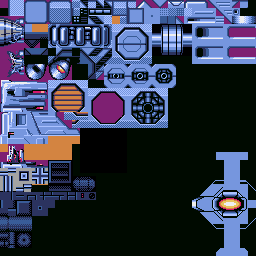
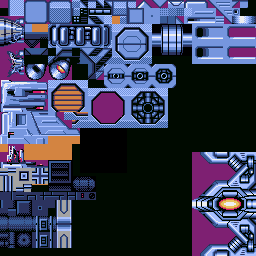
巨大戦艦

Changed region(s): [[0.75, 0.5938, 1.0, 1.0], [0.125, 0.7812, 0.2812, 0.9688]]

diff --git a/source/bossBattleShip.py b/source/bossBattleShip.py
@@ -12,6 +12,7 @@ from objMgr import ObjMgr
 from gameSession import GameSession
 from audio import BGM
 from enemy import CountMover
+from enemyArmored import Walker2
 import story
 
 
@@ -90,6 +91,8 @@ class BossBattleShip(enemy.EnemyBase):
         #self.stater = enemy.CountStater2(self, __class__.stateTable0, False, True)
 
         self.hatch = BossBattleShipHatch(self, (38-__class__.TILE_LEFT) *8, (42 -__class__.TILE_TOP)*8)
+        # 隔壁
+        self.barrierWall = None
         self.storyManager = story.StoryManager(self, storyList)
         self.batteryList = []
         self.missileLauncherList = []
@@ -135,14 +138,26 @@ class BossBattleShip(enemy.EnemyBase):
             # ハッチ爆発待ち
             self.storyManager.doStory()
             if self.hatch.removeFlag:
+                # ハッチが破壊されるとstoryList3を実行
                 gcommon.debugPrint("storyList3")
                 self.removeMissileLauncher()
+                enemy.removeEnemyShot()
+                self.enemyShotCollision = True
                 self.hatch = None
                 self.storyManager = story.StoryManager(self, storyList3, loopFlag=False, diffTime=True)
                 self.nextState()
         elif self.state == 2:
             # ハッチから侵入
             self.storyManager.doStory()
+            if self.barrierWall != None and self.barrierWall.removeFlag:
+                gcommon.debugPrint("storyList4")
+                self.storyManager = story.StoryManager(self, storyList4, loopFlag=False, diffTime=True)
+                ObjMgr.addObj(BossBattleShipCore(self, (89 -__class__.TILE_LEFT)*8, (27 -__class__.TILE_TOP)*8))
+                self.nextState()
+        elif self.state == 3:
+            self.storyManager.doStory()
+
+            
 
         # self.stater.update()
         # if self.stater.state == 1:
@@ -307,6 +322,12 @@ storyList2 = [
 storyList3 = [
     [0, BossBattleShip.setScroll, 0.5, -0.25],
     [360, BossBattleShip.setScroll, 0.75, 0.0],
+    [200, BossBattleShip.setScroll, 0.5, 0.0],
+]
+
+storyList4 = [
+    [0, BossBattleShip.setScroll, 1.0, 0.0],
+    [480, BossBattleShip.setScroll, 0.5, 0.0],
 ]
 
 # エンジン
@@ -819,7 +840,20 @@ class BossBattleShipHatch(enemy.EnemyBase):
                 enemy.create_explosion(cx, cy, gcommon.C_LAYER_EXP_SKY, gcommon.C_EXPTYPE_SKY_M)
             if self.cnt > 60:
                 pyxel.tilemap(1).copy(37, 26, 1, 37, 61, 97-37+1, 76-61+1)
-                ObjMgr.addObj(BossBattleShipBarrierWall(self.parent, (66 -BossBattleShip.TILE_LEFT)*8, (31-BossBattleShip.TILE_TOP)*8))
+                # 隔壁生成
+                self.parent.barrierWall = ObjMgr.addObj(BossBattleShipBarrierWall(self.parent, (66 -BossBattleShip.TILE_LEFT)*8, (31-BossBattleShip.TILE_TOP)*8))
+                ObjMgr.addObj(Walker2(self.parent, (64 -BossBattleShip.TILE_LEFT)*8, (38-BossBattleShip.TILE_TOP)*8,   \
+                    [
+                        [128, CountMover.MOVE, -1.0, 0.0],
+                        [60, CountMover.STOP, 0.0, 0.0],
+                        [64, CountMover.MOVE, 1.0, 0.0],
+                        [60, CountMover.STOP, 0.0, 0.0],
+                        [64, CountMover.MOVE, -1.0, 0.0],
+                        [60, CountMover.STOP, 0.0, 0.0],
+                        [128, CountMover.MOVE, 1.0, 0.0],
+                        [1, CountMover.STOP, 0.0, 0.0],
+                    ]
+                ))
                 self.remove()
 
     def draw(self):
@@ -859,3 +893,34 @@ class BossBattleShipBarrierWall(enemy.EnemyBase):
 
     def draw(self):
         pyxel.bltm(gcommon.sint(self.x), gcommon.sint(self.y), 1, 40, 88, 3, 5, 2)
+
+
+# コア
+class BossBattleShipCore(enemy.EnemyBase):
+    def __init__(self, parent, ox, oy):
+        super(__class__, self).__init__()
+        self.parent = parent
+        self.x = self.parent.x + ox
+        self.y = self.parent.y + oy
+        self.offsetX = ox
+        self.offsetY = oy
+        self.left = 0
+        self.top = 0
+        self.right = 8 * 8 -1
+        self.bottom = 8 * 13 -1
+        self.hitcolor1 = 12
+        self.hitcolor2 = 7
+        self.layer = gcommon.C_LAYER_SKY
+        self.exptype = gcommon.C_EXPTYPE_SKY_M
+        self.hp = 1000
+        self.ground = False
+        self.hitCheck = True
+        self.shotHitCheck = True
+        gcommon.debugPrint("Core")
+
+    def update(self):
+        self.x = self.parent.x + self.offsetX
+        self.y = self.parent.y + self.offsetY
+
+    def draw(self):
+        pyxel.bltm(gcommon.sint(self.x), gcommon.sint(self.y), 1, 54, 84, 8, 13, 2)

diff --git a/source/enemyArmored.py b/source/enemyArmored.py
@@ -5,7 +5,7 @@ import math
 import random
 import gcommon
 import enemy
-from enemy import EnemyBase
+from enemy import EnemyBase, enemy_shot
 from enemy import CountMover
 
 class Armored1(EnemyBase):
@@ -50,4 +50,46 @@ class Armored1(EnemyBase):
 		elif abs(self.mover.dx) < 1.0:
 			spNo = 1
 		pyxel.blt(self.x, self.y, 2, __class__.srcXTable[spNo], 184, 40, 40, 2)
+
+
+class Walker2(EnemyBase):
+	def __init__(self, parent, x, y, moveTable):
+		super(__class__, self).__init__()
+		self.parent = parent
+		self.x = x
+		self.y = y
+		self.mover = enemy.CountMover(self, moveTable, loopFlag=False, selfMove=False)
+		self.left = 5
+		self.top = 3
+		self.right = 12
+		self.bottom = 15
+		self.layer = gcommon.C_LAYER_SKY
+		self.exptype = gcommon.C_EXPTYPE_SKY_S
+		self.hp = 20
+		self.hitcolor1 = 5
+		self.hitcolor2 = 12
+		self.hitCheck = True
+		self.shotHitCheck = True
+		self.enemyShotCollision = False
+		self.score = 200
+		self.fdx = 1
+
+	def update(self):
+		self.mover.update()
+		if self.mover.isEnd:
+			self.remove()
+			return
+		if self.mover.mode == CountMover.STOP:
+			if self.mover.cnt == 20:
+				enemy_shot(self.x + (self.right -self.left)/2, self.y + (self.bottom -self.top)/2, 2, 0)
+		self.fdx = 1 if self.mover.dx < 0 else -1
+		self.x = self.parent.x + self.mover.x
+		self.y = self.parent.y + self.mover.y
+		#gcommon.debugPrint(str(self.x) + " " + str(self.y))
+
+	def draw(self):
+		n = 0
+		if abs(self.mover.dx) > 0.1:
+			n = 1 + (self.cnt>>2) & 3
+		pyxel.blt(self.x, self.y, 1, 56 + n * 16, 208, 16 * self.fdx, 16, 0)
 

diff --git a/source/enemy.py b/source/enemy.py
@@ -223,11 +223,16 @@ class CountMover:
 	SET_DEG = 10
 	ACCEL_MAX = 11
 	SET_INDEX = 100
-	def __init__(self, obj, table, loopFlag):
+	def __init__(self, obj, table, loopFlag, selfMove=True):
 		self.obj = obj
 		self.table = table
 		self.tableIndex = 0
 		self.loopFlag = loopFlag
+		self.selfMove = selfMove
+		if self.selfMove == False:
+			self.obj = self
+			self.x = obj.x
+			self.y = obj.y
 		self.isEnd = False
 		self.cycleCount = 0
 		self.cycleFlag = False
@@ -236,13 +241,15 @@ class CountMover:
 		self.dy = 0.0
 		self.rad = 0.0
 		self.deg = 0.0
+		self.mode = 0
 
 	def update(self):
 		self.cycleFlag = False
 		if self.isEnd:
 			return
 		item = self.table[self.tableIndex]
-		if item[1] == 5:
+		self.mode = item[1]
+		if self.mode == 5:
 			# 移動先座標指定
 			if item[2] == -9999:
 				# X座標変化なし
@@ -272,7 +279,7 @@ class CountMover:
 				self.nextTable()
 
 		elif self.cnt <= item[0]:
-			mode = item[1]
+			mode = self.mode
 			if mode == 0:
 				self.dx = item[2]
 				self.dy = item[3]
